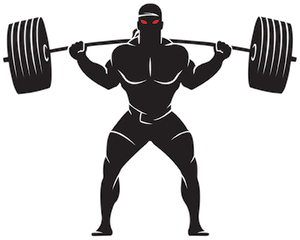
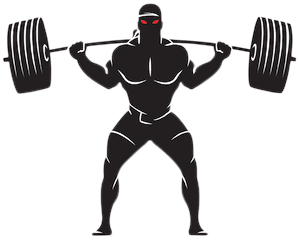
changed box shadow about imgs

diff --git a/src/App.scss b/src/App.scss
@@ -186,6 +186,9 @@ h2 {
     }
     &.implode {
       animation: implode 1.4s ease-out forwards;
+      svg path {
+        animation: display3000 1s linear reverse;
+      }
     }
   }
   svg {
@@ -494,14 +497,17 @@ circle {
   z-index: 1;
   h2 {
     text-align: center;
+    // filter: drop-shadow(8px 8px 5px rgba(0, 0, 0, 0.5));
   }
   p {
     text-align: left;
   }
   img {
-    border-radius: 3px;
-    -webkit-box-shadow: 5px 5px 15px 0px rgba(0, 0, 0, 0.5);
-    box-shadow: 5px 5px 15px 0px rgba(0, 0, 0, 0.5);
+    // border-radius: 3px;
+    // -webkit-box-shadow: 5px 5px 15px 0px rgba(0, 0, 0, 0.5);
+
+    // box-shadow: 5px 5px 15px 0px rgba(0, 0, 0, 0.5);
+    filter: drop-shadow(8px 8px 5px rgba(0, 0, 0, 0.5));
   }
 }
 
